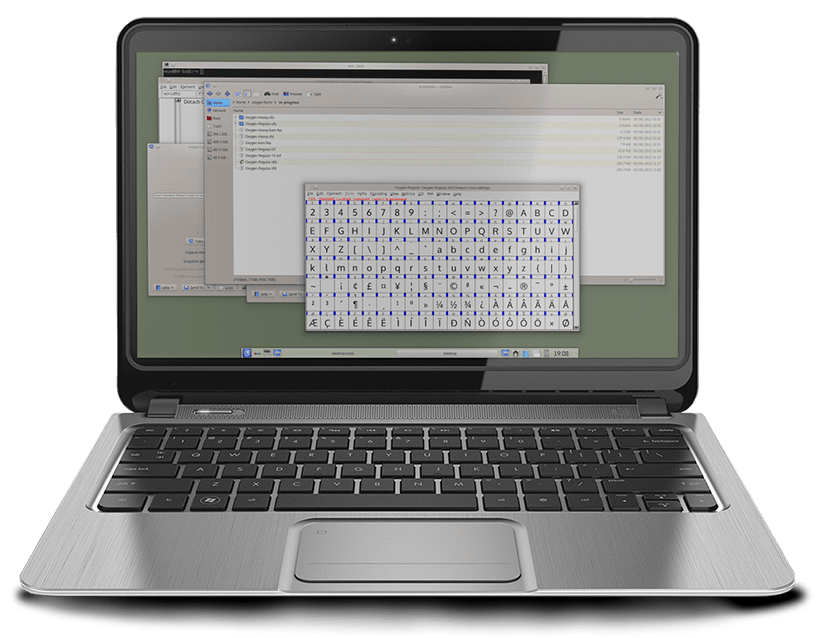
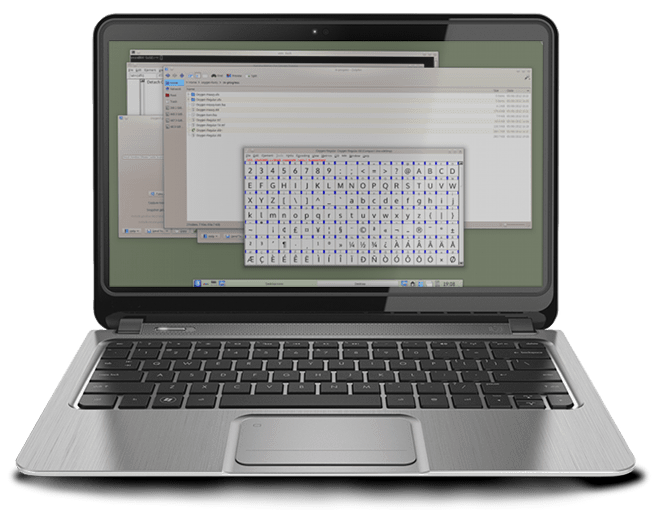
progd

diff --git a/_includes/slider.html b/_includes/slider.html
@@ -10,7 +10,7 @@
   </ol>
   <!-- Carousel items -->
   <div class="carousel-inner">
-    <div class="active item"><img src="assets/images/ultrabook.png" width="80%"/></div>
+    <div class="active item"><img src="assets/images/ultrabook.png" max-width="100%"/></div>
     <div class="item">…</div>
     <div class="item">…</div>
 

diff --git a/_site/index.html b/_site/index.html
@@ -58,7 +58,7 @@
   </ol>
   <!-- Carousel items -->
   <div class="carousel-inner">
-    <div class="active item"><img src="assets/images/ultrabook.png" width="80%"/></div>
+    <div class="active item"><img src="assets/images/ultrabook.png" max-width="100%"/></div>
     <div class="item">…</div>
     <div class="item">…</div>
 
